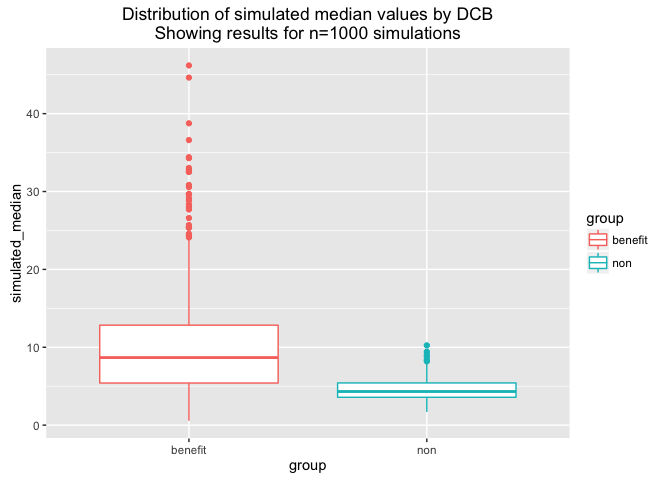
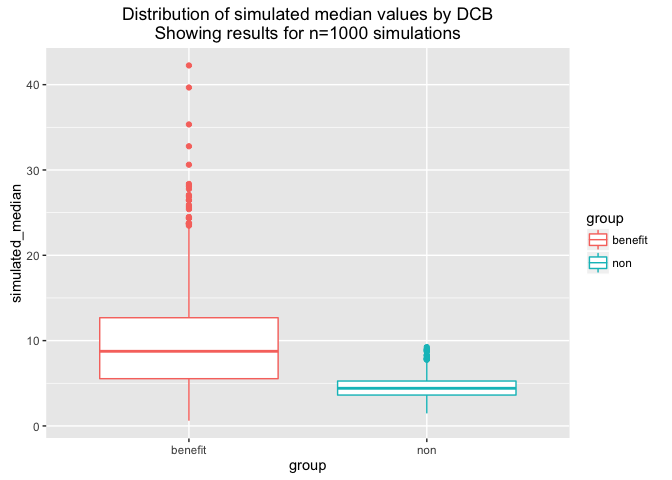
updating Rmd formatting

diff --git a/estimate_power_wilcox_rexp.md b/estimate_power_wilcox_rexp.md
@@ -24,7 +24,11 @@ We want to simulate `mutation_load` values for `benefit` and `non-benefit` patie
 
 The question at hand is, if we saw the same association in our cohort as they saw in the larger cohort, would this be statistically significant?
 
-They observed 1. median mutation load among benefit patients of 12.4 2. median mutation load among non-benefit patients of 6.4 3. approx 20% of patients had a durable reponse
+They observed
+
+1.  median mutation load among benefit patients of 12.4
+2.  median mutation load among non-benefit patients of 6.4
+3.  approx 20% of patients had a durable reponse
 
 We will use these values in our simulations.
 
@@ -37,21 +41,7 @@ As a starting point, we will try using an exponential distribution to simulate t
 
 ``` r
 library(tidyverse)
-```
 
-    ## Loading tidyverse: ggplot2
-    ## Loading tidyverse: tibble
-    ## Loading tidyverse: tidyr
-    ## Loading tidyverse: readr
-    ## Loading tidyverse: purrr
-    ## Loading tidyverse: dplyr
-
-    ## Conflicts with tidy packages ----------------------------------------------
-
-    ## filter(): dplyr, stats
-    ## lag():    dplyr, stats
-
-``` r
 ## generate simulated data 
 sim_data <- function(index = 1, 
                      n = 30,
@@ -80,14 +70,14 @@ df %>% head()
 ```
 
     ## # A tibble: 6 × 2
-    ##            x   group
-    ##        <dbl>   <chr>
-    ## 1  5.4417585 benefit
-    ## 2 13.8523706 benefit
-    ## 3 42.7537328 benefit
-    ## 4  4.7295631 benefit
-    ## 5  0.4773589 benefit
-    ## 6  4.0944285 benefit
+    ##           x   group
+    ##       <dbl>   <chr>
+    ## 1  2.180910 benefit
+    ## 2 29.556676 benefit
+    ## 3  5.523065 benefit
+    ## 4  9.126047 benefit
+    ## 5  3.209550 benefit
+    ## 6  6.017778 benefit
 
 Here is a plot of these simulated data:
 
@@ -139,12 +129,12 @@ str(res)
 
     ## 'data.frame':    1000 obs. of  7 variables:
     ##  $ simulation : chr  "1" "2" "3" "4" ...
-    ##  $ statistic  : num  51 78 105 87 70 81 50 107 89 101 ...
-    ##  $ p.value    : num  0.63383 0.32293 0.00687 0.12902 0.59423 ...
+    ##  $ statistic  : num  68 99 88 71 106 103 87 62 64 102 ...
+    ##  $ p.value    : num  0.67446 0.02267 0.11445 0.5557 0.00546 ...
     ##  $ method     : Factor w/ 1 level "Wilcoxon rank sum test": 1 1 1 1 1 1 1 1 1 1 ...
     ##  $ alternative: Factor w/ 1 level "two.sided": 1 1 1 1 1 1 1 1 1 1 ...
-    ##  $ benefit    : num  4.56 8.73 12.47 9.63 5.24 ...
-    ##  $ non        : num  6.7 4.17 3.95 3.27 4.18 ...
+    ##  $ benefit    : num  10.37 18.09 8.04 6.23 16.59 ...
+    ##  $ non        : num  5.98 6.23 4.18 5.39 5.88 ...
 
 Summarizing results
 -------------------
@@ -157,7 +147,7 @@ It is fairly trivial to calculate this as:
 mean(res$p.value < 0.05)
 ```
 
-    ## [1] 0.219
+    ## [1] 0.191
 
 We can also plot the power at different levels of alpha, by computing the cumulative proportion of samples with p&lt;=*α*.
 
@@ -173,17 +163,5 @@ It's thus equally as important to inspect the simulated data, both graphically a
 Following are some plots that may aid in this process:
 
 ![](estimate_power_wilcox_rexp_files/figure-markdown_github/plot-simulated-medians-1.png)
-
-``` r
-## plot of simulated data from a single simulation, selected at random
-ggplot(sim_df[runif(min=0, max=1000, n=6)] %>% 
-         dplyr::bind_rows(.id='simulation') %>%
-         dplyr::left_join(res, by='simulation') %>%
-         dplyr::mutate(sim_label = stringr::str_c('Sim ', simulation, ' (p = ', format.pval(`p.value`, digits = 2), ')')),
-       aes(y = x, x = group, colour = group, group = group)) + 
-  geom_boxplot() +
-  facet_wrap(~ sim_label) +
-  ggtitle('Distribution of simulated data by DCB\n(showing results for 6 simulations selected at random)')
-```
 
 ![](estimate_power_wilcox_rexp_files/figure-markdown_github/plot-example-simulations-1.png)
